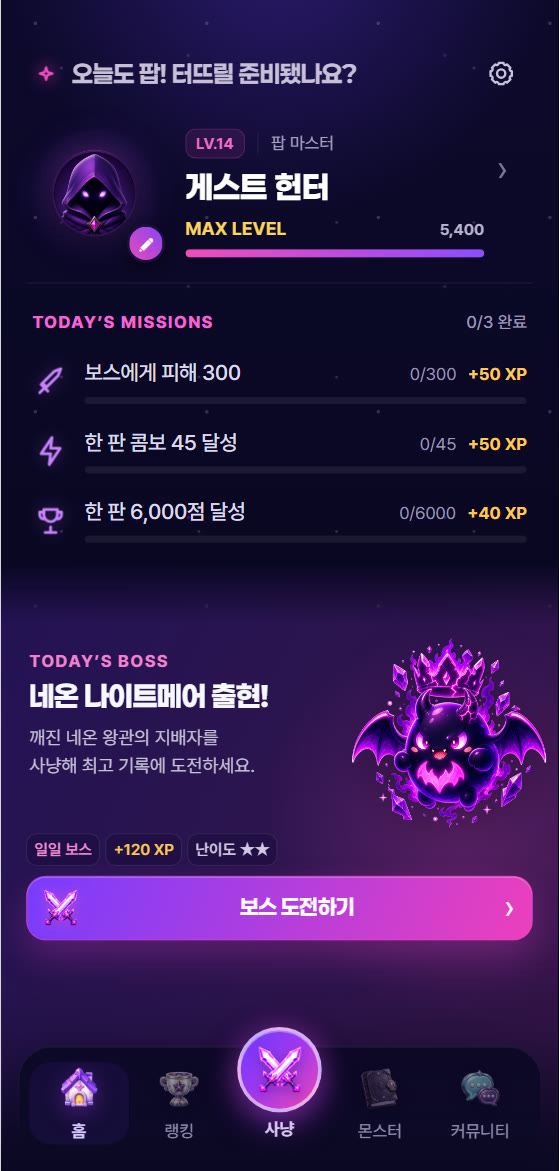
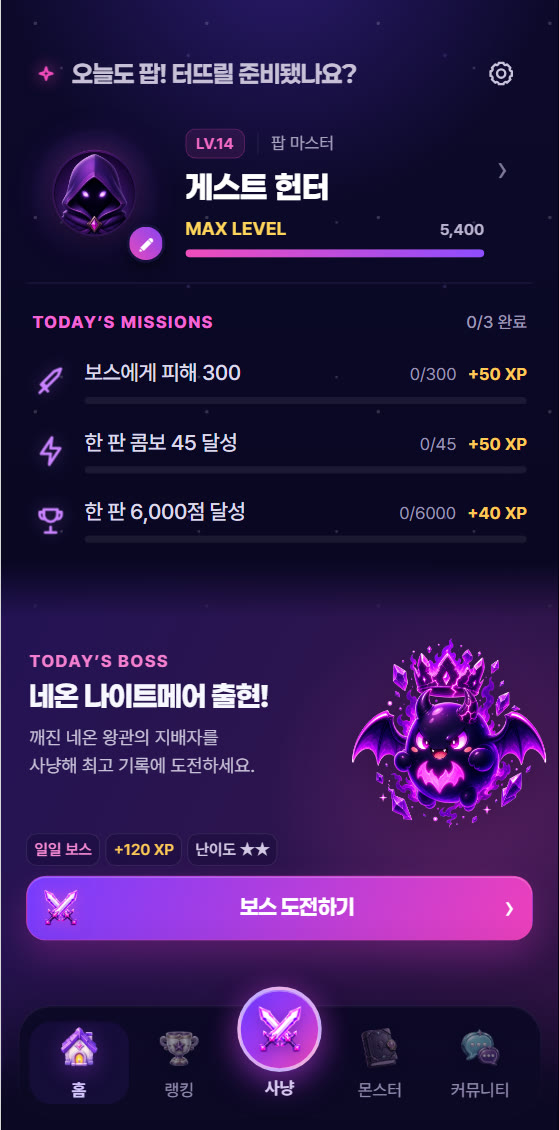
8/6(목) 17:46 · 추가 1, 수정 2

diff --git a/project-monsterpop.html b/project-monsterpop.html
@@ -120,7 +120,8 @@
 
     .hero-phone { position: absolute; right: -22px; bottom: -28px; width: 156px; z-index: 3; filter: drop-shadow(0 10px 14px rgba(0,0,0,0.16)); }
 
-    .hero-main-phone { width: clamp(230px, 20vw, 300px); filter: drop-shadow(0 28px 42px rgba(5,0,24,.42)); transform: rotate(2deg); transition: transform .35s ease, filter .35s ease; }
+    /* 폰 한 대가 히어로를 혼자 채우므로 HOLO(215) · YENE(220)보다 조금 크게, 다만 300은 과하다 */
+    .hero-main-phone { width: clamp(210px, 17vw, 260px); filter: drop-shadow(0 28px 42px rgba(5,0,24,.42)); transform: rotate(2deg); transition: transform .35s ease, filter .35s ease; }
 
     .hero-visual .hero-main-phone .phone-screen { position: absolute; top: 1.54%; left: 4.53%; width: 90.95%; height: 97%; overflow: hidden; border-radius: 11% / 5%; z-index: 1; background: #07051a; }
 
@@ -135,7 +136,7 @@
 
     @media (max-width: 900px) {
       .hero-visual { min-height: 520px; padding: 34px 24px 48px; }
-      .hero-main-phone { width: min(250px, 72vw); }
+      .hero-main-phone { width: min(230px, 70vw); }
     }
 
     @media (prefers-reduced-motion: reduce) { .hero-main-phone { transition: none; } .hero-main-phone:hover { transform: rotate(2deg); } }
@@ -316,6 +317,10 @@
     .journey-visual { position: relative; min-height: 285px; overflow: hidden; background: #0b0824; isolation: isolate; }
     .journey-bg { position: absolute; inset: 0; width: 100%; height: 100%; object-fit: cover; opacity: .88; z-index: -2; }
     .journey-visual::after { content: ""; position: absolute; inset: 0; z-index: -1; background: linear-gradient(180deg, rgba(5,3,20,.08), rgba(5,3,20,.78)); }
+    /* 실제 화면 캡처를 쓰는 카드 — 그림 소재와 달리 흐리게 깔지 않고 또렷하게 두고,
+       어둠은 글자가 놓인 위쪽에만 준다 */
+    .journey-bg.is-shot { opacity: 1; object-position: center 24%; }
+    .journey-visual.has-shot::after { background: linear-gradient(180deg, rgba(5,3,20,.72) 0%, rgba(5,3,20,.30) 38%, rgba(5,3,20,.06) 100%); }
     .journey-ui { position: absolute; inset: 0; padding: 18px 16px; display: flex; flex-direction: column; color: #fff; }
     .journey-kicker { font-size: 9px; font-weight: 900; letter-spacing: .14em; color: #d4c6ff; }
     .journey-title { margin-top: 6px; font-size: 17px; line-height: 1.15; font-weight: 900; }
@@ -523,9 +528,9 @@
           <div class="journey-copy"><small>STEP 01 · HOME</small><strong>오늘의 사냥 준비</strong><p>진행도와 일일 목표를 먼저 보여주고 일반 사냥과 보스전으로 연결합니다.</p></div>
         </article>
         <article class="journey-card">
-          <div class="journey-visual">
-            <img class="journey-bg" src="assets/projects/monsterpop/flow/battle-arena.webp" alt="" loading="lazy">
-            <div class="journey-ui"><span class="journey-kicker">30 SEC HUNT</span><strong class="journey-title">판단하고 바로 조작</strong><span class="journey-sub">몬스터마다 다른 입력으로 콤보를 이어갑니다.</span><div class="journey-monsters"><img src="assets/projects/monsterpop/flow/slime.webp" alt="말랑 슬라임" loading="lazy"><img src="assets/projects/monsterpop/flow/fox.webp" alt="네온 여우" loading="lazy"></div><div class="journey-hud"><span>COMBO</span><b>24</b><span>BURST READY</span></div></div>
+          <div class="journey-visual has-shot">
+            <img class="journey-bg is-shot" src="assets/projects/monsterpop/flow/game-play.webp" alt="사냥 화면 — 몬스터마다 다른 조작 표시" loading="lazy">
+            <div class="journey-ui"><span class="journey-kicker">30 SEC HUNT</span><strong class="journey-title">판단하고 바로 조작</strong><span class="journey-sub">몬스터마다 다른 입력으로 콤보를 이어갑니다.</span></div>
           </div>
           <div class="journey-copy"><small>STEP 02 · HUNT</small><strong>30초 집중 플레이</strong><p>탭·스와이프·더블탭·홀드를 시각·소리·진동 피드백으로 연결합니다.</p></div>
         </article>
